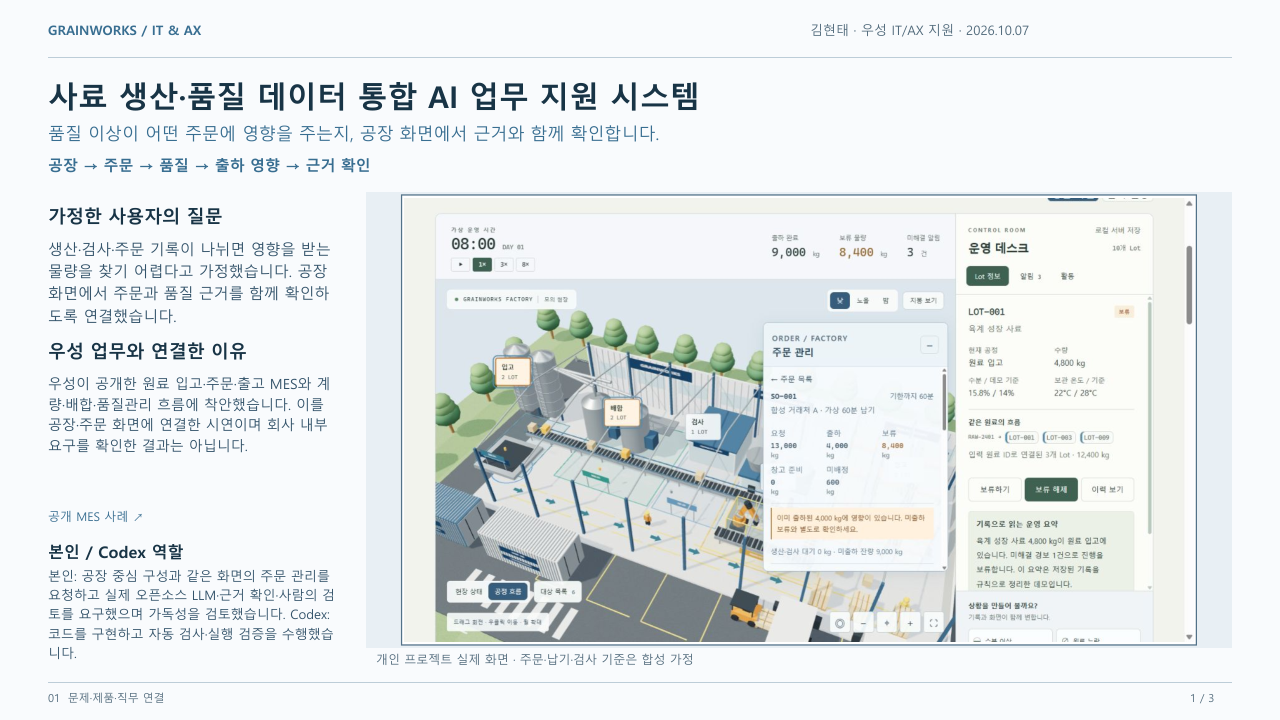
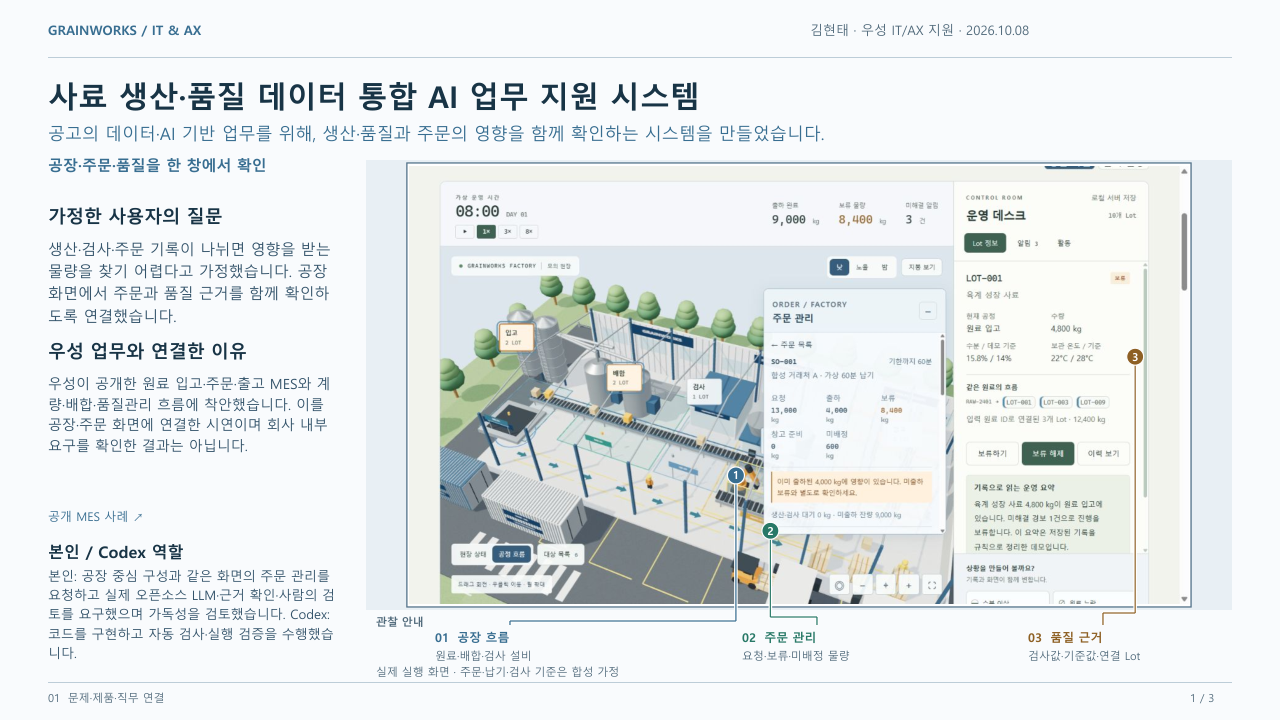
Improve portfolio observation guide with numbered screenshot leaders

Changed region(s): [[0.0312, 0.1528, 0.9375, 0.9472], [0.4688, 0.1528, 0.625, 0.2139]]

diff --git a/docs/portfolio/build_orders_portfolio.py b/docs/portfolio/build_orders_portfolio.py
@@ -14,7 +14,7 @@ from reportlab.lib.styles import ParagraphStyle
 
 ROOT=Path(__file__).resolve().parents[2]
 OUT=ROOT/'docs/portfolio';ORD=ROOT/'docs/orders';EVID=OUT/'evidence'
-PDF=OUT/'김현태_우성_IT_AX_생산품질_주문_AI_포트폴리오_v8.pdf'
+PDF=OUT/'김현태_우성_IT_AX_생산품질_주문_AI_포트폴리오_v9.pdf'
 REPO='https://github.com/Kimhyuntae9665/grainworks-agent'
 MES='https://www.woosungfeed.co.kr/m11.php'
 JD='https://woosung.recruiter.co.kr/career/jobs/128746'
@@ -38,7 +38,7 @@ def build():
  c=canvas.Canvas(str(PDF),pagesize=(W,H),pageCompression=1)
  c.setTitle('사료 생산·품질 데이터 통합 AI 업무 지원 시스템 | 김현태')
  c.setAuthor('김현태');c.setSubject('우성 IT/AX · 개인 프로젝트 · 실제 로컬 LLM · 합성 주문')
- frames=[]
+ frames=[];callouts=[]
  def rect(x,t,w,h,fill,stroke=None):
   c.setFillColor(HexColor(fill));c.setStrokeColor(HexColor(stroke or fill));c.setLineWidth(1.25)
   c.rect(x,H-t-h,w,h,fill=1,stroke=bool(stroke))
@@ -57,6 +57,23 @@ def build():
   rect(x,t,w,h,'#e9f0f5');rect(ix-3,it-3,iw+6,ih+6,'#ffffff','#52728a')
   c.drawImage(ImageReader(im),ix,H-it-ih,width=iw,height=ih,mask='auto')
   frames.append({'page':page,'file':str(file.relative_to(ROOT)),'image':[ix,it,iw,ih],'outerBorder':[ix-3,it-3,iw+6,ih+6],'stroke':'#52728a'})
+  return ix,it,iw,ih
+ def guide(frame,pixel,target,lane,number,title,detail,color):
+  ix,it,iw,ih=frame
+  ax,at=ix+iw*pixel[0]/1265,it+ih*pixel[1]/712
+  # Leader overlays are separate from the unchanged source screenshot.
+  # The label end and image end share a number; white backing keeps the line visible.
+  path=[(ax,at),(ax,lane),(target,lane),(target,625)]
+  for width,stroke in [(3.6,'#ffffff'),(1.2,color)]:
+   c.setLineWidth(width);c.setStrokeColor(HexColor(stroke))
+   for (x,t),(x2,t2) in zip(path,path[1:]):c.line(x,H-t,x2,H-t2)
+  c.setFillColor(HexColor(color));c.setStrokeColor(HexColor('#ffffff'));c.setLineWidth(1.2)
+  c.circle(ax,H-at,8.5,fill=1,stroke=1)
+  c.setFillColor(HexColor('#ffffff'));c.setFont('MGB',11)
+  c.drawCentredString(ax,H-at-3.8,str(number))
+  txt(f'{number:02d}  {title}',target-75,630,12,color,True)
+  txt(detail,target-75,649,11,MUTED)
+  callouts.append({'number':number,'title':title,'sourcePixel':pixel,'anchor':[ax,at],'leader':path,'label':[target-75,630],'detail':detail})
  def arrow(x,t,x2,t2,color=BLUE):
   c.setStrokeColor(HexColor(color));c.setLineWidth(1.5);c.line(x,H-t,x2,H-t2)
   import math
@@ -64,28 +81,32 @@ def build():
   for da in [-.55,.55]:c.line(x2,H-t2,x2-8*math.cos(ang+da),H-(t2-8*math.sin(ang+da)))
  def base(page,label):
   rect(0,0,W,H,PAPER);txt('GRAINWORKS / IT & AX',48,22,13,BLUE,True)
-  txt('김현태 · 우성 IT/AX 지원 · 2026.10.07',810,22,13,MUTED)
+  txt('김현태 · 우성 IT/AX 지원 · 2026.10.08',810,22,13,MUTED)
   rect(48,57,1184,1,LINE);rect(48,682,1184,1,LINE)
   txt(label,48,691,11,MUTED);txt(f'{page} / 3',1190,691,11,MUTED)
  # 01: One large integrated screen, the actual problem and personal responsibility.
  base(1,'01  문제·제품·직무 연결')
  txt(b['cover.title'],48,78,30,INK,True)
  txt(b['cover.subtitle'],48,123,17,BLUE)
- txt('공장 → 주문 → 품질 → 출하 영향 → 근거 확인',48,156,15,BLUE,True)
+ txt('공장·주문·품질을 한 창에서 확인',48,156,15,BLUE,True)
  txt('가정한 사용자의 질문',48,205,18,INK,True)
  para(b['cover.problem'],48,240,294,15,limit=117)
  txt('우성 업무와 연결한 이유',48,340,18,INK,True)
  para(b['cover.company'],48,375,294,14,limit=136)
  link('공개 MES 사례 ↗',MES,48,509)
- pic(ORD/'order-hero.png',366,192,866,456,1)
- txt('개인 프로젝트 실제 화면 · 주문·납기·검사 기준은 합성 가정',376,652,12,MUTED)
+ hero=pic(ORD/'order-hero.png',366,160,866,450,1)
+ txt('관찰 안내',376,615,11,MUTED,True)
+ guide(hero,(530,503),510,621,1,'공장 흐름','원료·배합·검사 설비',BLUE)
+ guide(hero,(586,593),817,617,2,'주문 관리','요청·보류·미배정 물량','#287968')
+ guide(hero,(1179,310),1103,613,3,'품질 근거','검사값·기준값·연결 Lot',AMBER)
+ txt('실제 실행 화면 · 주문·납기·검사 기준은 합성 가정',376,665,11,MUTED)
  txt('본인 / Codex 역할',48,542,16,INK,True)
  para(b['cover.role'],48,568,294,13,limit=100)
  c.showPage()
  # 02: Inventory allocation is an inclusion relation; quality changes propagate separately.
  base(2,'02  주문 연결·상태 구분·입력 변경 검증')
  txt(b['order.title'],48,78,30,INK,True)
- txt('SO-001 하나의 주문으로, 보류와 기출하 영향을 구분합니다.',48,126,16,BLUE)
+ txt('공고의 데이터 기반 업무를 위해, 주문과 품질 보류의 영향을 함께 조회하는 화면을 만들었습니다.',48,126,16,BLUE)
  rect(48,171,700,56,'#edf4f8',LINE)
  txt('SO-001 · 육계 성장 사료',64,181,17,INK,True)
  txt('요청 13,000 kg = 출하 4,000 + 미출하 보류 8,400 + 미배정 600',64,209,13,BLUE)
@@ -114,7 +135,7 @@ def build():
  # 03: Logo flow is a verified runtime, not a vendor inventory or company deployment.
  base(3,'03  실제 오픈소스 LLM·검증·운영 경계')
  txt(b['agent.title'],48,78,30,INK,True)
- txt('Qwen3 4B + Ollama + LangGraph · 실제 모델 호출과 근거를 분리해 확인',48,125,16,BLUE)
+ txt('공고의 AI 기반 업무를 위해, Qwen3 4B·Ollama·LangGraph에 근거 조회 도구를 연결했습니다.',48,125,16,BLUE)
  flow=OUT/'flow/architecture-flow.png'
  c.drawImage(ImageReader(Image.open(flow)),48,H-168-222,width=1184,height=222,mask='auto')
  txt('질문·저장 상태 → 모델의 도구 선택 → 주문 조회 → 근거·답변 → 사람 검토',48,404,16,BLUE,True)
@@ -150,7 +171,7 @@ def build():
  for i in range(1,4):
   im=Image.open(OUT/f'preview-page-{i}.png');im.thumbnail((640,360));contact.paste(im,((i-1)*640,0))
  contact.save(OUT/'contact-sheet.png')
- report={'pageCount':3,'pages':pages,'screenshots':frames,'allScreenshotBorders':'continuous four outer edges; final visual review pending','synthetic':True,'sha256':hashlib.sha256(PDF.read_bytes()).hexdigest(),'narrativeAccuracy':'Single recorded case; not a general AI accuracy claim','actualModelElapsedMs':live['elapsedMs'],'visualReview':'pending'}
+ report={'pageCount':3,'pages':pages,'screenshots':frames,'observationGuides':callouts,'allScreenshotBorders':'continuous four outer edges; final visual review pending','synthetic':True,'sha256':hashlib.sha256(PDF.read_bytes()).hexdigest(),'narrativeAccuracy':'Single recorded case; not a general AI accuracy claim','actualModelElapsedMs':live['elapsedMs'],'visualReview':'pending'}
  (OUT/'pdf-qa.json').write_text(json.dumps(report,ensure_ascii=False,indent=2)+'\n',encoding='utf-8')
  print(json.dumps({'pdf':str(PDF),'pages':3,'sha256':report['sha256']},ensure_ascii=False))
 if __name__=='__main__':build()

diff --git a/docs/portfolio/README.md b/docs/portfolio/README.md
@@ -1,10 +1,12 @@
-# 우성 IT/AX 생산·품질·주문 AI 포트폴리오 · v8
+# 우성 IT/AX 생산·품질·주문 AI 포트폴리오 · v9
 
 [최신 3페이지 PDF](portfolio.pdf) · [편집 소스](build_orders_portfolio.py) · [본문](final-orders.txt) · [PDF 검수](pdf-qa.json) · [구현·실행·AI 검증](../orders/README.md)
 
 | 요구 | 반영 페이지 | 결과 |
 |---|---|---|
 | 공장·주문을 같은 화면에서 관리 | 1쪽 큰 실제 화면 | 반영 |
+| 관찰 안내를 작게 아래에 배치하고 화면과 선으로 연결 | 1쪽 01 공장 흐름·02 주문 관리·03 품질 근거 | 반영 |
+| 공고 업무와 만든 기능을 본문에서 직접 연결 | 1·2·3쪽 제목 아래 연결 문장 | 반영 |
 | 회사 업무와 프로젝트 문제 연결 | 1쪽 공개 MES 대응·문제 가정 | 반영 |
 | 주문·품질·출하 물량 구분 | 2쪽 SO-001 사례·확대 캡처 | 반영 |
 | 입력 변경에 따라 결과 변화 | 2쪽 배정 전후 수량·재고 불변 | 반영 |
@@ -28,8 +30,8 @@ python -X utf8 docs/portfolio/build_orders_portfolio.py
 
 빌더는 1280×720의 3페이지, 버전 PDF·최신 별칭 portfolio.pdf, 전체·100% 미리보기, 링크·글꼴·테두리 좌표 검수 JSON을 만든다. 생성만으로 육안 검수가 완료되는 것은 아니다.
 
-최종 검수는 한국어 텍스트 추출, 3페이지, 본문 경계·겹침, 모든 스크린샷의 바깥 네 변·캡션 분리, 색 대비와 최종 렌더링 QR 디코딩을 포함한다. 본문 윤문은 light·변경률 2.27%·게이트 exit 0이었다. 의미 보존은 원문과 별도로 대조했다.
+최종 검수는 한국어 텍스트 추출, 3페이지, 본문 경계·겹침, 모든 스크린샷의 바깥 네 변·캡션 분리, 연결선 도착점과 안내의 대응, 색 대비와 최종 렌더링 QR 디코딩을 포함한다. 기존 본문 윤문은 light·변경률 2.27%·게이트 exit 0이었다. v9의 추가 연결 문장은 별도로 light 경로를 실행해 검증했다. 의미 보존은 원문과 별도로 대조했다.
 
 기술 로고의 출처·사용 조건은 [flow](flow/README.md)와 [자산 원장](assets-v8.json)에 있다. Qwen 로고는 공식 조직의 모델 계열 기호이며 후원·회사 연동을 의미하지 않는다.
 
-이전 버전은 당시 물류/공장 중심 구성 이력이다. 최신 자료는 portfolio.pdf와 이름에 생산품질_주문_AI_포트폴리오_v8이 포함된 파일이다.
+이전 버전은 당시 물류/공장 중심 구성 이력이다. 최신 자료는 portfolio.pdf와 이름에 생산품질_주문_AI_포트폴리오_v9이 포함된 파일이다. v8 화면 원본은 변경하지 않고 PDF 위에 번호·연결선을 추가했다.

diff --git a/README.md b/README.md
@@ -35,7 +35,7 @@ Qwen 모델이 Ollama의 native `tool_calls`를 반환하면 LangGraph가 허용
 
 ## 포트폴리오와 실행 근거
 
-- [3페이지 포트폴리오](docs/portfolio/portfolio.pdf) - v8: 생산·품질·주문 통합, 큰 실제 화면·배정 전후·실제 LLM 구조와 오류 검증
+- [3페이지 포트폴리오](docs/portfolio/portfolio.pdf) - v9: 생산·품질·주문 통합, 큰 실제 화면과 관찰 안내 연결선·배정 전후·실제 LLM 구조와 오류 검증
 - [주문 연결 실행·검수 기록](docs/orders/README.md)
 - [새 설비 조회·정지 비교·품질 영향의 실제 모델 기록](docs/factory/README.md)
 - [실제 모델 평가 기록](docs/evaluation/live-model.json) · [평가 설명](docs/evaluation/README.md)
